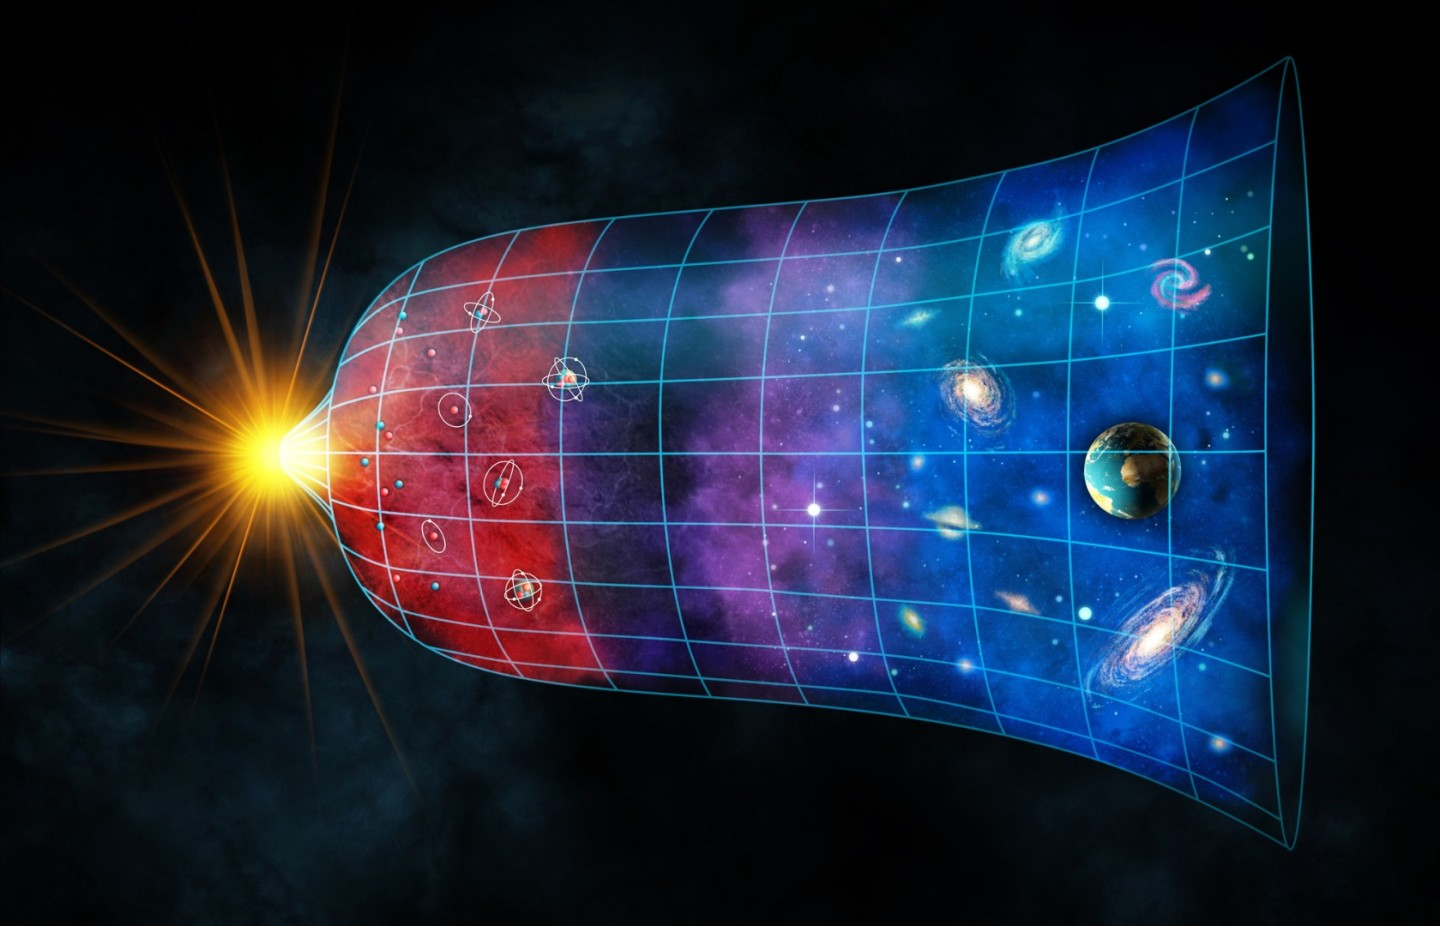
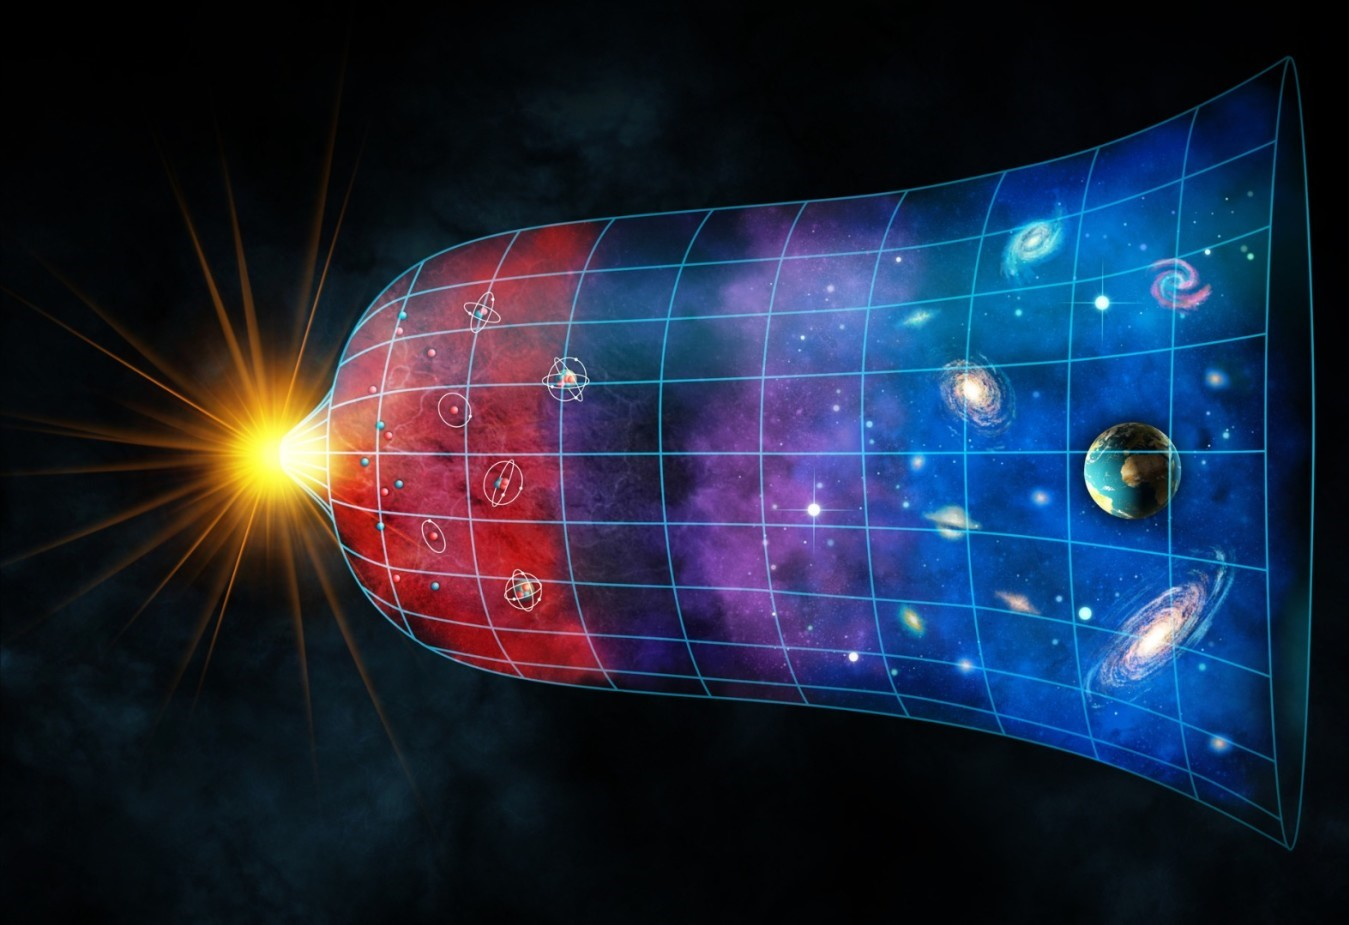
space_bigbang_1

diff --git a/docs/index.html b/docs/index.html
@@ -48,12 +48,24 @@
    </div>
    
    <div class="big_bang">
+      <img src="img/big_bang.jpg" class="big_bang_img" width="100%">
       <div class="line"></div>
       <div class="header">
          <div class="space_header">space</div>
          <div class="big_bang_header">big bang theory</div>
          <div class="dot"></div>
       </div>
+      <div class="universe">The beginning of the universe</div>
+      <div class="universe_inner">14 billion years ago the universe emerged from nothing and for an unknown purpose. At first it was much smaller than the atom, infinitely smaller. It then expanded to a trillion miles in one second. This event is called the Big Bang.</div>
+      <div class="universe_inner_1">Time began when the universe was created, so the question of "what was happening before" does not make sense. The big bang was not even an explosion in the space of matter, but rather an expansion of space itself.
+      </div>
+      <div class="universe_inner_2">From the beginning the universe consisted of pure energy;</div>
+      <div class="universe_inner_3">But in one millionth of a minute, part of the energy is converted from matter to form a huge collection of subatromic particles (particles that are smaller than an atom).</div>
+      <div class="div_1"><div class="text__1"></div></div>
+      <div class="div_2"><div class="text__1"></div></div>
+      <div class="div_3"><div class="text__1"></div></div>
+      <div class="div_4"><div class="text__1"></div></div>
+      <div class="div_5"><div class="text__1"></div></div> 
    </div>
 </body>
 </html>

diff --git a/docs/style/main.css b/docs/style/main.css
@@ -352,3 +352,70 @@ body{
 	border-radius: 50%;
 	background-color: gray;
 }
+.universe{
+	font-family: 'Roboto Condensed', sans-serif;
+	font-size: 35px;
+	color: white;
+	position: absolute;
+	font-weight: bold;
+	top: 70px;
+	left: 50px;
+	width: 420px;
+	height: 40x;
+}
+.universe_inner{
+	font-family: 'Roboto Condensed', sans-serif;
+	font-size: 20px;
+	color: white;
+	font-weight: 400;
+	position: absolute;
+	top: 130px;
+	left: 50px;
+	width: 400px;
+	height: 40x;
+}
+.universe_inner_1{
+	font-family: 'Roboto Condensed', sans-serif;
+	font-size: 15px;
+	color: white;
+	font-weight: 400;
+	position: absolute;
+	top: 240px;
+	left: 50px;
+	width: 400px;
+	height: 40x;
+}
+.universe_inner_2{
+	font-family: 'Roboto Condensed', sans-serif;
+	font-size: 15px;
+	color: white;
+	font-weight: 400;
+	position: absolute;
+	top: 302px;
+	left: 70px;
+	width: 400px;
+	height: 40x;
+}
+.universe_inner_3{
+	font-family: 'Roboto Condensed', sans-serif;
+	font-size: 15px;
+	color: white;
+	font-weight: 400;
+	position: absolute;
+	top: 317px;
+	left: 50px;
+	width: 400px;
+	height: 40x;
+}
+.big_bang_img{
+	position: absolute;
+	top: 100px;
+}
+.div_1{
+	position: absolute;
+	top: 440px;
+	left: 265px;
+	width: 2px;
+	height: 80px;
+	background-color: white;
+}
